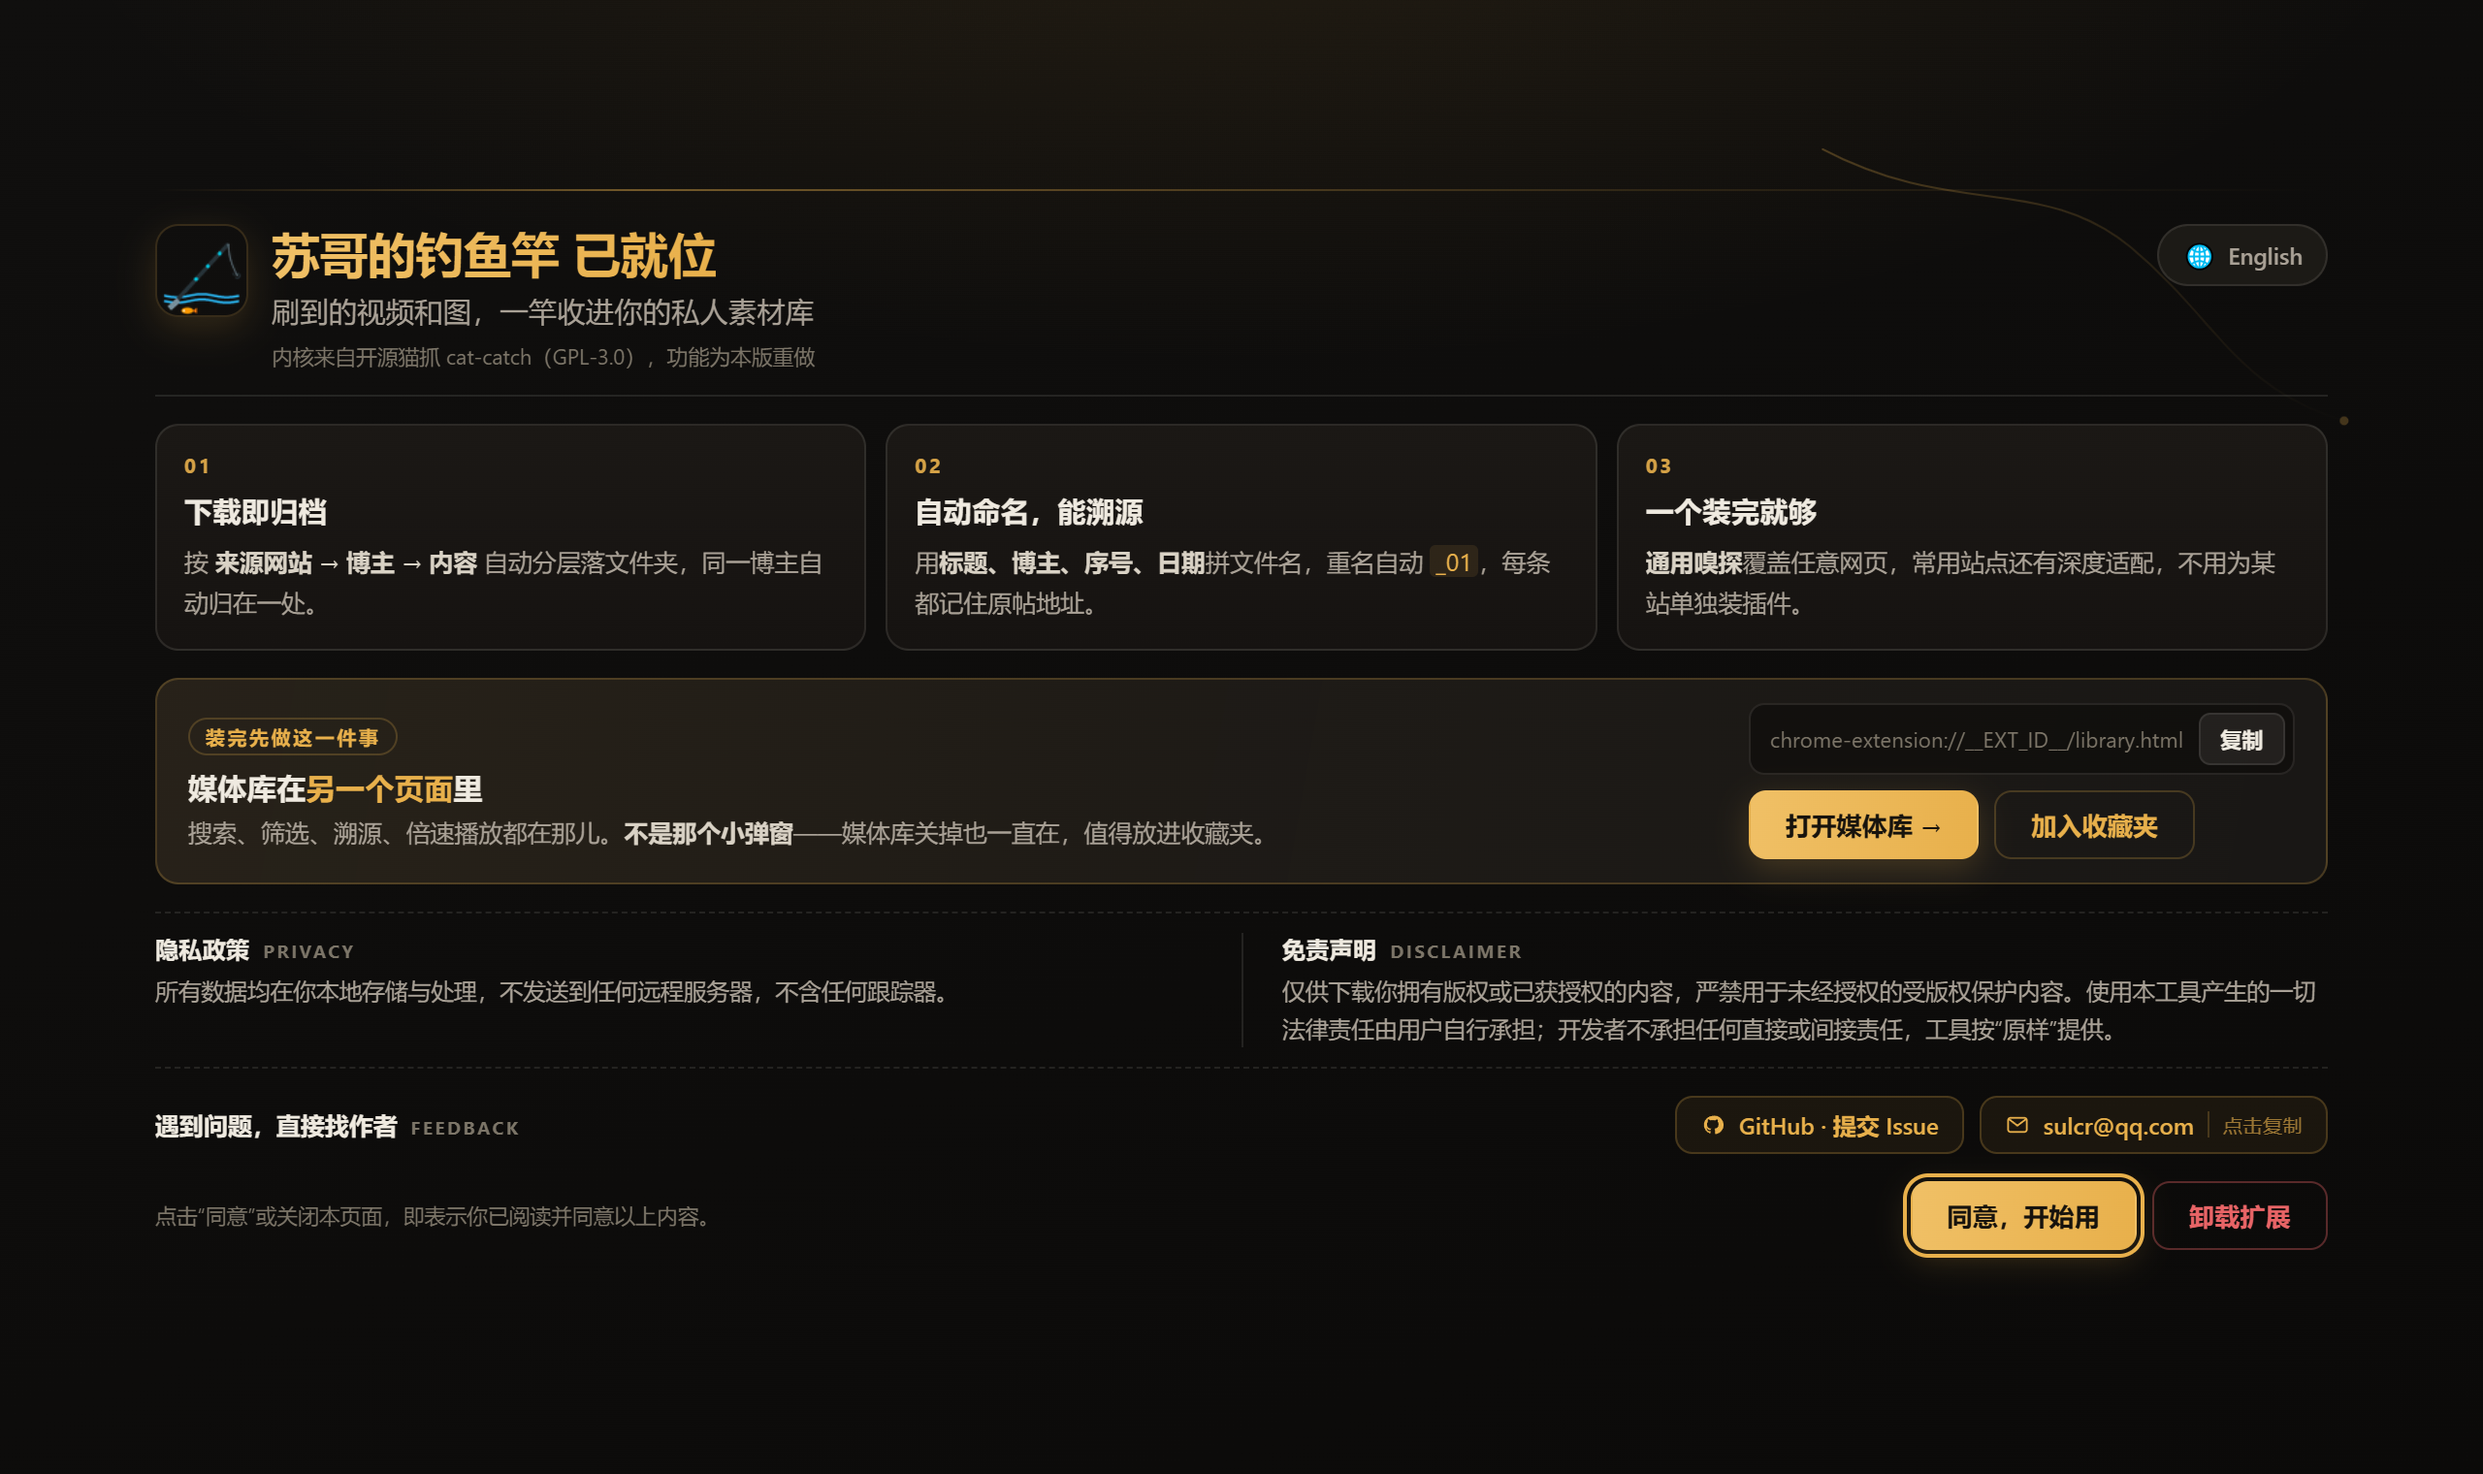
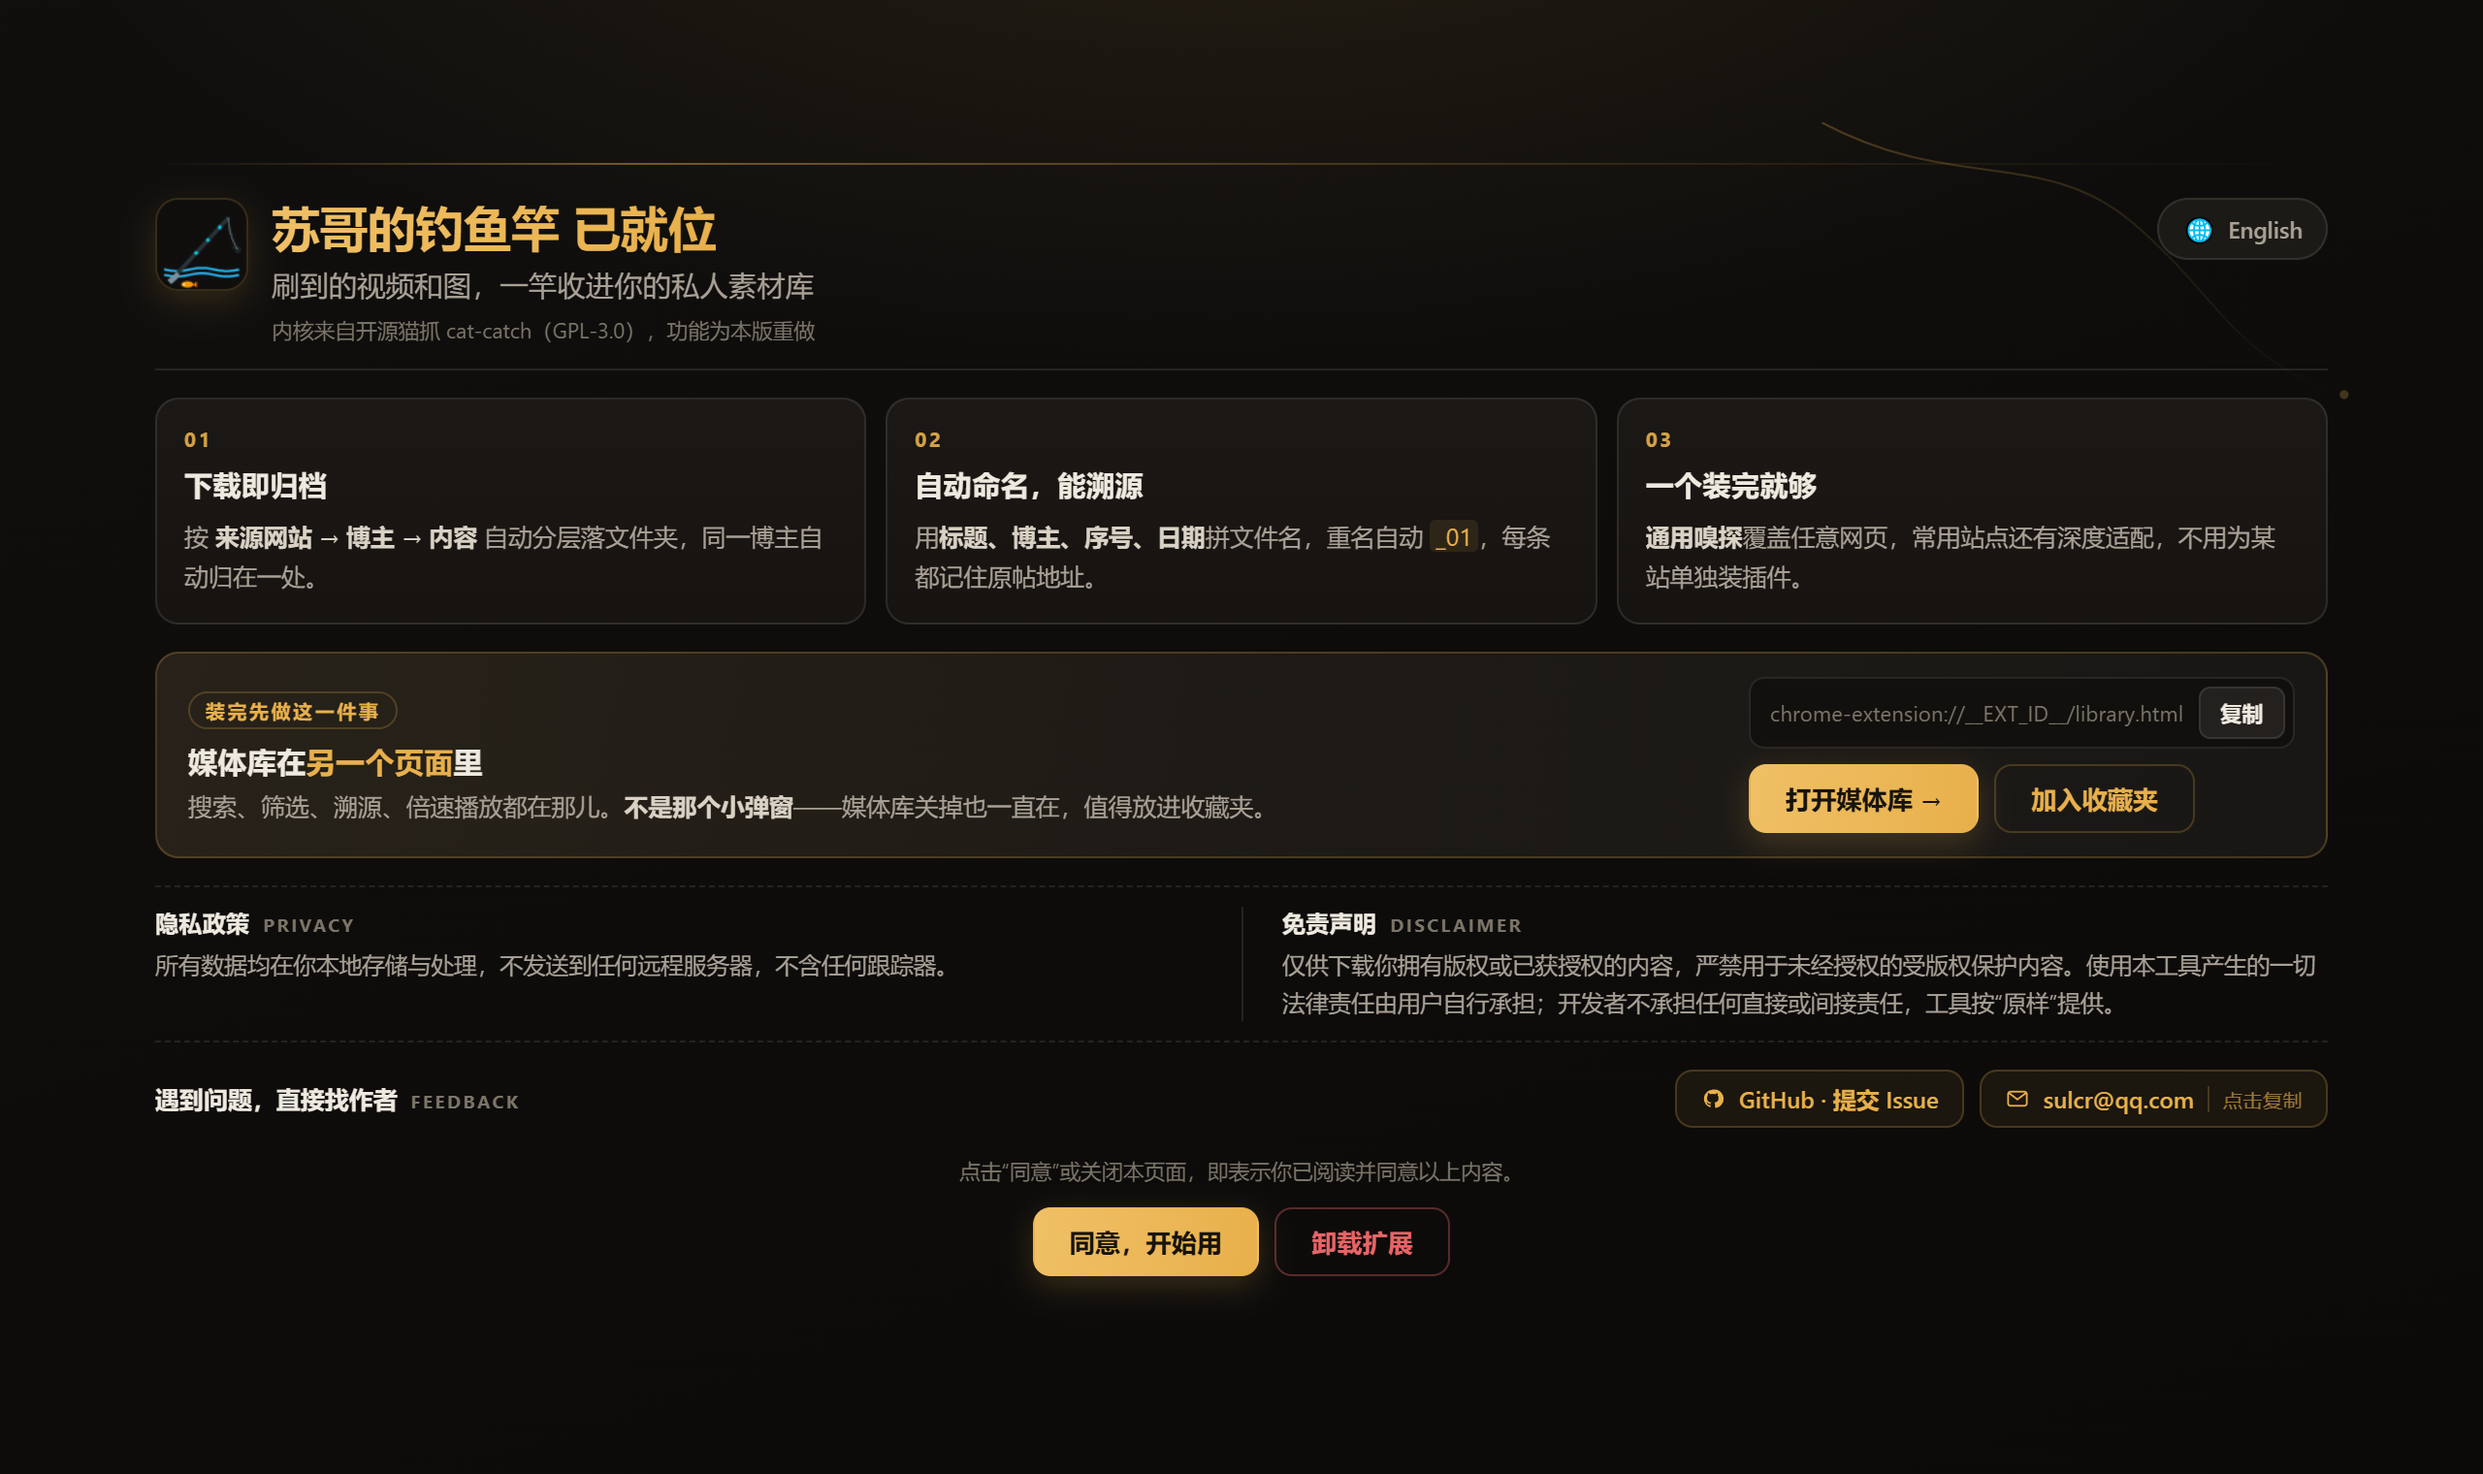
style(install): 底部「同意 / 卸载」按钮改为居中排布
苏哥看截图提「同意和卸载放中间可好」，采用最规整的一版：声明小字在上、按钮组
在下，两行都居中（没有把声明挤到按钮旁边，那行字会被压得过窄）。

- .actions 由「左文右钮」横排 → 纵向居中；.agreement 去掉 flex:1 撑满并居中
- .buttons 加 justify-content:center；移动端同步居中（原 align-items:stretch 已废）
- 整页 529 → 556px，1280×760 仍一屏；纯 CSS 改动，未动 HTML/JS

验收：中文/英文/390px 移动端三态截图；qa-install-gate.py 17/17 全绿、left=0。

diff --git a/css/install.css b/css/install.css
@@ -478,13 +478,14 @@ h1 .lang-en.active {
 /* ---------- 同意与按钮 ---------- */
 .actions {
   display: flex;
+  flex-direction: column;
   align-items: center;
-  gap: 16px;
-  flex-wrap: wrap;
+  gap: 10px;
 }
 
 .agreement {
-  flex: 1 1 320px;
+  flex: none;
+  text-align: center;
   font-size: 0.68rem;
   line-height: 1.55;
   color: var(--dim);
@@ -492,6 +493,7 @@ h1 .lang-en.active {
 
 .buttons {
   display: flex;
+  justify-content: center;
   gap: 8px;
   flex: 0 0 auto;
 }
@@ -679,8 +681,7 @@ html[lang="en"] .fb-title em {
   }
 
   .actions {
-    flex-direction: column;
-    align-items: stretch;
+    align-items: center;
   }
 
   .buttons {
